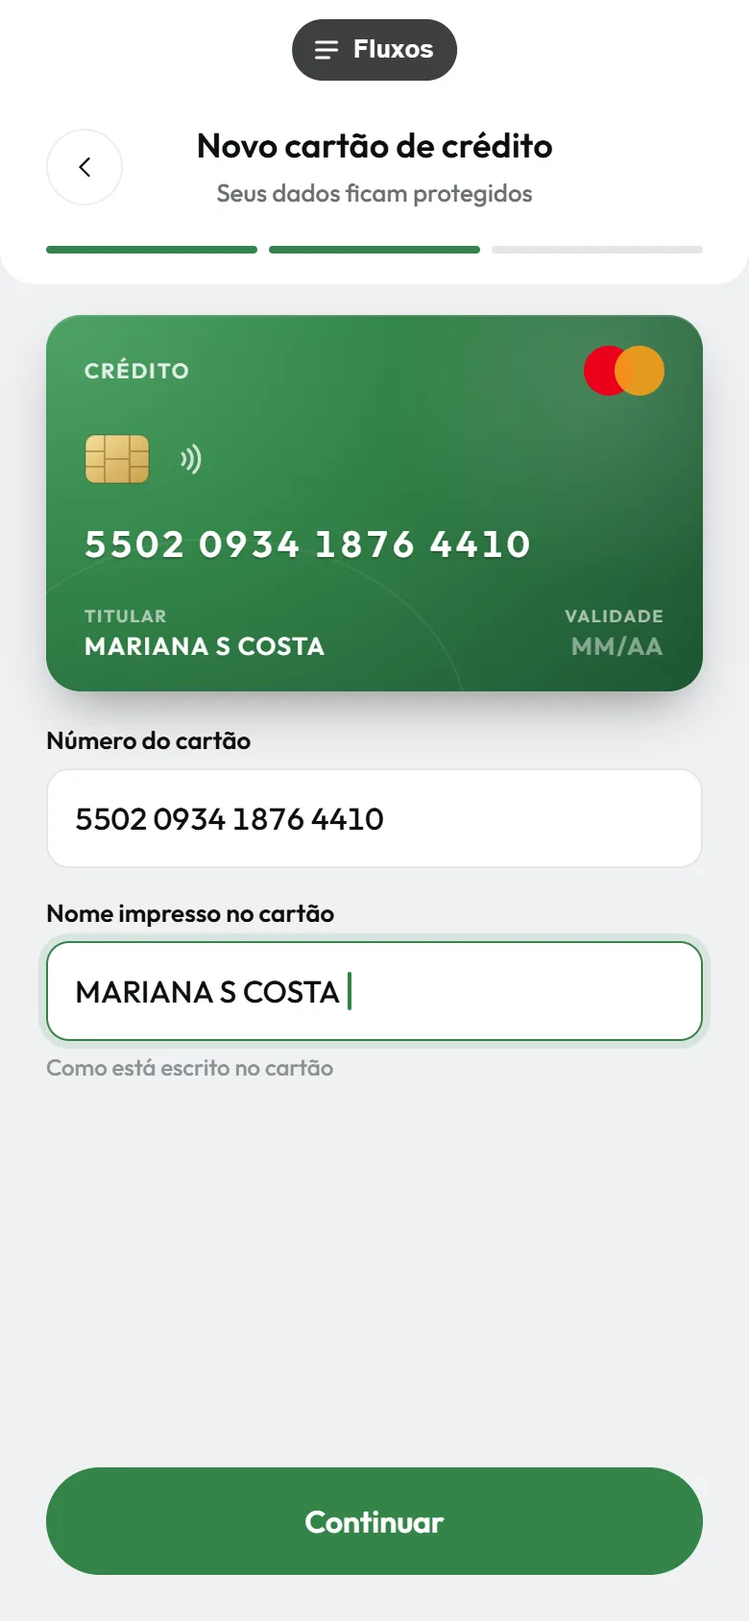
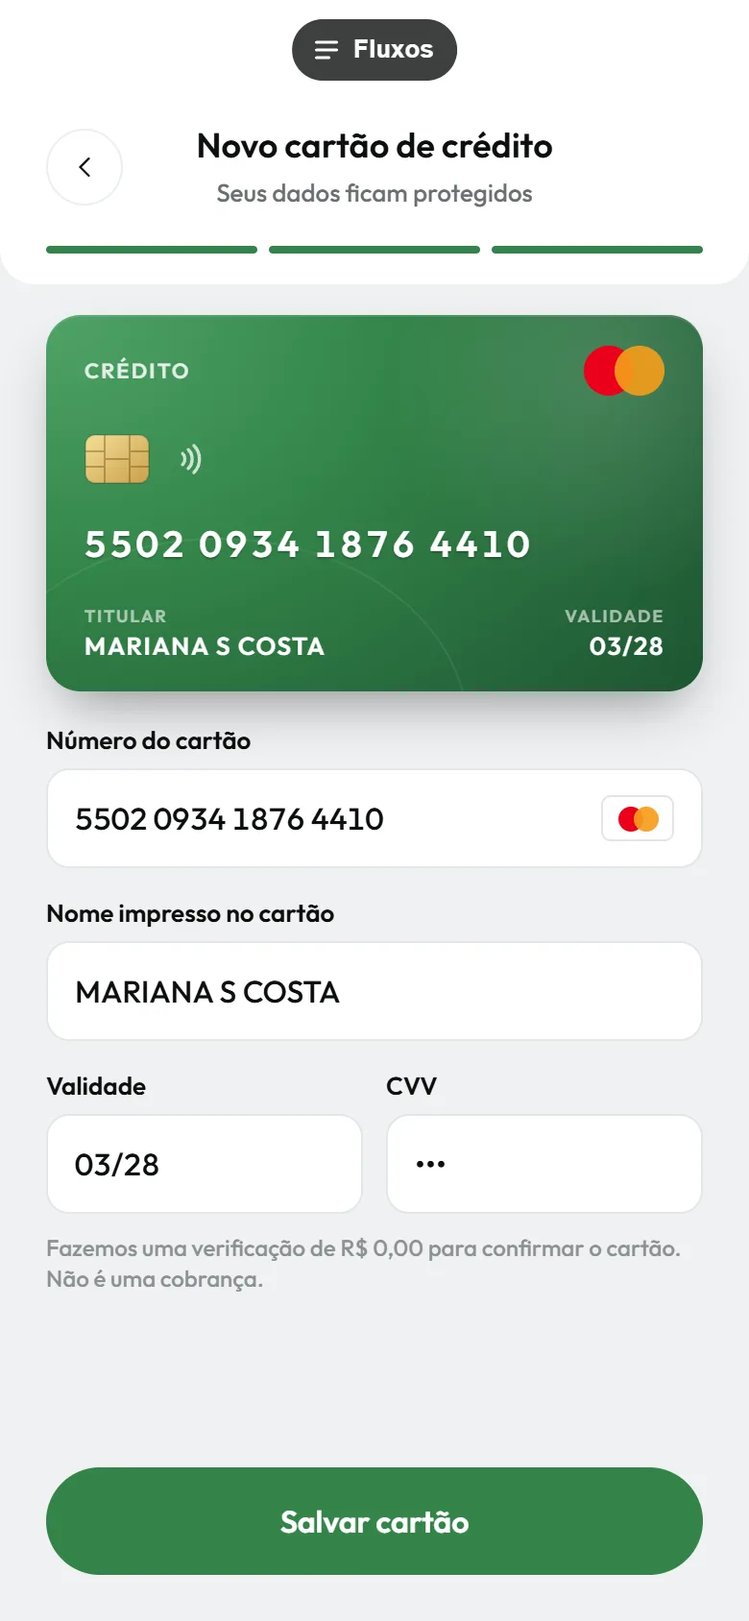
app-club/recorrencia-cartao: cartão novo como no link de cadastro
No app, o cadastro do cartão segue o link: a bandeira aparece enquanto
ele digita o número, o campo carrega sozinho e o nome, a validade e o
CVV abrem juntos, com o Continuar desativado até o fim. Os testes
automáticos tocam no campo de verdade, e a galeria mostra a tela nova.

diff --git a/app-club/recorrencia-cartao/index.html b/app-club/recorrencia-cartao/index.html
@@ -384,7 +384,7 @@ function numeros(est) {
   }
   return { disp: r2(disp), carteira: r2(carteira), eco: r2(eco), kwh, por, caminho: r2(por.set.cam + por.out.cam) };
 }
-const chave = est => JSON.stringify({ c: contasDe(est), e: est.emissao || '', u: est.uc || 'casa', a: est.acordo || null, g: est.grupo || null, n: est.neg || null, q: !!est.unica, d: est.desm || null, de: est.desmEscolha || null, au: est.auto || null, co: est.cob || null, ca: est.cart || null, at: !!est.atu, vf: !!est.verFormas, vt: !!est.verTodos, pm: (est.pg || {}).metodo || '' });
+const chave = est => JSON.stringify({ c: contasDe(est), e: est.emissao || '', u: est.uc || 'casa', a: est.acordo || null, g: est.grupo || null, n: est.neg || null, q: !!est.unica, d: est.desm || null, de: est.desmEscolha || null, au: est.auto || null, co: est.cob || null, ca: est.cart || null, at: !!est.atu, vf: !!est.verFormas, vt: !!est.verTodos, pm: (est.pg || {}).metodo || '', nc: est.ncEtapa || 0 });
 // the payment of a bill: from the record once paid (or the boleto paid), from the payment in course before
 function ctx(est, id) {
   const d = DEF[id], c = contasDe(est)[id], pg = est.pg || {}, n = numeros(est);
@@ -1369,6 +1369,11 @@ const marcaCartao = k => (k === 'master'
   ? '<span aria-hidden="true" style="display: flex"><span style="width: 26px; height: 26px; border-radius: 50%; background: #EB001B"></span><span style="width: 26px; height: 26px; margin-left: -10px; border-radius: 50%; background: #F79E1B; opacity: 0.9"></span></span>'
   : k === 'elo' ? '<span aria-hidden="true" style="font-size: 22px; line-height: 1; font-weight: 700; color: #FFCB05">elo</span>'
   : '<span aria-hidden="true" style="font-size: 22px; line-height: 1; font-weight: 800; font-style: italic; letter-spacing: 0.02em; color: #FFFFFF">VISA</span>');
+// the brand on the plaque at the end of the number field (the signup link's .marcaCampo, in the app's colors)
+const marcaCampo = k => (k === 'master'
+  ? '<span style="display: flex"><span style="width: 13px; height: 13px; border-radius: 50%; background: #EB001B"></span><span style="width: 13px; height: 13px; margin-left: -5px; border-radius: 50%; background: #F79E1B; opacity: 0.92"></span></span>'
+  : k === 'elo' ? '<span style="font-size: 11px; line-height: 1; font-weight: 800; color: #0D0F0F">elo</span>'
+  : '<span style="font-size: 10px; line-height: 1; font-weight: 800; font-style: italic; letter-spacing: 0.02em; color: #1A1F71">VISA</span>');
 function miniCartao(est, e) {
   const k = proximoCartao(cartDe(est)), c = CARTOES[k], deb = est.tipoNovo === 'debito';
   const fundo = 'radial-gradient(130% 170% at 0% 0%, #4FA367 0%, #338449 42%, #1C5230 100%)';
@@ -1376,33 +1381,44 @@ function miniCartao(est, e) {
   const chip = '<svg width="34" height="26" viewBox="0 0 34 26" aria-hidden="true"><defs><linearGradient id="chipNovo" x1="0" y1="0" x2="1" y2="1"><stop offset="0" stop-color="#F6DE97"></stop><stop offset="1" stop-color="#C8A04A"></stop></linearGradient></defs><rect x="0.5" y="0.5" width="33" height="25" rx="5" fill="url(#chipNovo)" stroke="rgba(0,0,0,0.15)"></rect><path d="M0.5 9h10M0.5 17h10M23.5 9h10M23.5 17h10M10.5 0.5v25M23.5 0.5v25M10.5 13h13" stroke="rgba(90,60,10,0.35)" fill="none"></path></svg>';
   const nfc = '<svg width="20" height="20" viewBox="0 0 24 24" fill="none" stroke="rgba(255,255,255,0.75)" stroke-width="2" stroke-linecap="round" aria-hidden="true"><path d="M8.5 8.5a5 5 0 0 1 0 7"></path><path d="M12 6a8.5 8.5 0 0 1 0 12"></path><path d="M15.5 3.5a12 12 0 0 1 0 17"></path></svg>';
   const rot = t => `<span style="font-size: 9px; line-height: 12px; font-weight: 600; letter-spacing: 0.1em; opacity: 0.6">${t}</span>`;
+  // with the number still empty, the card shows dots and no brand; both fill in while he types (data-nc-mini-*)
   return `<div aria-hidden="true" style="position: relative; overflow: hidden; margin: 16px 16px 0; height: 196px; box-sizing: border-box; border-radius: 18px; background: ${fundo}; color: #FFFFFF; padding: 16px 20px; display: flex; flex-direction: column; justify-content: space-between; box-shadow: 0 14px 28px -10px rgba(13,15,15,0.45), inset 0 1px 0 rgba(255,255,255,0.12)">
 <span style="position: absolute; right: -70px; top: -90px; width: 240px; height: 240px; border-radius: 50%; background: radial-gradient(circle, rgba(255,255,255,0.14) 0%, rgba(255,255,255,0) 68%)"></span>
 <span style="position: absolute; left: -40px; bottom: -120px; width: 260px; height: 200px; border-radius: 50%; border: 1px solid rgba(255,255,255,0.08)"></span>
-<div style="position: relative; display: flex; align-items: center; justify-content: space-between"><span style="font-size: 11px; line-height: 16px; font-weight: 600; letter-spacing: 0.1em; text-transform: uppercase; opacity: 0.85">${deb ? 'Débito' : 'Crédito'}</span>${marcaCartao(k)}</div>
+<div style="position: relative; display: flex; align-items: center; justify-content: space-between"><span style="font-size: 11px; line-height: 16px; font-weight: 600; letter-spacing: 0.1em; text-transform: uppercase; opacity: 0.85">${deb ? 'Débito' : 'Crédito'}</span><span data-nc-mini-marca style="display: flex; opacity: ${e === 0 ? 0 : 1}">${marcaCartao(k)}</span></div>
 <div style="position: relative; display: flex; align-items: center; gap: 10px">${chip}${nfc}</div>
-<span style="position: relative; font-size: 19px; line-height: 24px; font-weight: 600; letter-spacing: 0.12em; font-variant-numeric: tabular-nums; white-space: nowrap; text-shadow: 0 1px 1px rgba(0,0,0,0.25)">${c.numero}</span>
-<div style="position: relative; display: flex; align-items: flex-end; justify-content: space-between; gap: 12px"><span style="min-width: 0; display: flex; flex-direction: column; gap: 1px">${rot('TITULAR')}<span style="font-size: 13px; line-height: 16px; font-weight: 600; letter-spacing: 0.06em">${e >= 1 ? 'MARIANA S COSTA' : fraco('NOME NO CARTÃO')}</span></span><span style="flex-shrink: 0; display: flex; flex-direction: column; align-items: flex-end; gap: 1px">${rot('VALIDADE')}<span style="font-size: 13px; line-height: 16px; font-weight: 600; letter-spacing: 0.06em">${e >= 2 ? c.validade : fraco('MM/AA')}</span></span></div>
+<span data-nc-mini-num style="position: relative; font-size: 19px; line-height: 24px; font-weight: 600; letter-spacing: 0.12em; font-variant-numeric: tabular-nums; white-space: nowrap; text-shadow: 0 1px 1px rgba(0,0,0,0.25)">${e === 0 ? '•••• •••• •••• ••••' : c.numero}</span>
+<div style="position: relative; display: flex; align-items: flex-end; justify-content: space-between; gap: 12px"><span style="min-width: 0; display: flex; flex-direction: column; gap: 1px">${rot('TITULAR')}<span data-nc-mini-nome style="font-size: 13px; line-height: 16px; font-weight: 600; letter-spacing: 0.06em">${e >= 2 ? 'MARIANA S COSTA' : fraco('NOME NO CARTÃO')}</span></span><span style="flex-shrink: 0; display: flex; flex-direction: column; align-items: flex-end; gap: 1px">${rot('VALIDADE')}<span data-nc-mini-val style="font-size: 13px; line-height: 16px; font-weight: 600; letter-spacing: 0.06em">${e >= 2 ? c.validade : fraco('MM/AA')}</span></span></div>
 </div>`;
 }
+// adding a card, as in the signup link (Sergio, 12/11): three steps, the kind (already picked in the sheet), the number and the
+// rest. The number types in, the brand shows up in the field and on the card, and once complete the field loads by itself
+// (green border, a light running across, a line filling underneath, the spinner and "Verificando o cartão…"); then the name,
+// the validity and the CVV open together and fill in. No "Continuar" to tap: it stays off until the end, when "Salvar cartão"
+// takes its place. ncEtapa: 0 the number (empty), 1 loading, 2 the rest
 function novoCartao(est) {
   const ct = cartDe(est), k = proximoCartao(ct), c = CARTOES[k], e = Math.min(2, est.ncEtapa || 0), deb = est.tipoNovo === 'debito';
-  // the label with more weight, the helper lighter; every field the same height
-  const campo = (rot, val, foco, ajudaTxt = '') => `<div style="min-width: 0; display: flex; flex-direction: column; gap: 6px"><span style="font-size: 13px; line-height: 18px; font-weight: 600; color: #0D0F0F">${rot}</span><span style="height: 52px; box-sizing: border-box; border-radius: 12px; background: #FFFFFF; border: ${foco ? '1.5px solid #338449' : '1px solid #E3E6E8'};${foco ? ' box-shadow: 0 0 0 4px rgba(51,132,73,0.12);' : ''} padding: 0 14px; display: flex; align-items: center; gap: 2px; font-size: 16px; line-height: 22px; font-weight: 500; color: #0D0F0F; font-variant-numeric: tabular-nums; white-space: nowrap; overflow: hidden">${val}${foco ? '<span style="width: 2px; height: 20px; margin-left: 2px; border-radius: 1px; background: #338449"></span>' : ''}</span>${ajudaTxt ? `<span style="font-size: 12px; line-height: 16px; font-weight: 500; color: #8B9094">${ajudaTxt}</span>` : ''}</div>`;
-  const passos = [0, 1, 2].map(i => `<span style="flex: 1 1 0; height: 4px; border-radius: 2px; background: ${i <= e ? '#338449' : '#E3E6E8'}"></span>`).join('');
-  const campos = [
-    campo('Número do cartão', c.numero, e === 0, e === 0 ? 'Os 16 números na frente do cartão' : ''),
-    e >= 1 ? campo('Nome impresso no cartão', 'MARIANA S COSTA', e === 1, e === 1 ? 'Como está escrito no cartão' : '') : '',
-    e >= 2 ? `<div style="display: grid; grid-template-columns: minmax(0, 1fr) minmax(0, 1fr); gap: 12px">${campo('Validade', c.validade, true)}${campo('CVV', '•••', false)}</div>` : '',
-  ].filter(Boolean).join('');
-  const ultimo = e >= 2;
+  const caret = '<span data-nc-caret style="width: 2px; height: 20px; margin: 0 2px; border-radius: 1px; background: #338449; flex-shrink: 0"></span>';
+  // the label with more weight, the helper lighter (green while it loads); every field the same height
+  const campo = (rot, val, { foco = false, borda = foco, ajuda = '', ajudaVerde = false, attrs = '', fim = '', extra = '' } = {}) => `<div style="min-width: 0; display: flex; flex-direction: column; gap: 6px"><span style="font-size: 13px; line-height: 18px; font-weight: 600; color: #0D0F0F">${rot}</span><span${attrs} style="position: relative; overflow: hidden; height: 52px; box-sizing: border-box; border-radius: 12px; background: #FFFFFF; border: ${borda ? '1.5px solid #338449' : '1px solid #E3E6E8'};${foco ? ' box-shadow: 0 0 0 4px rgba(51,132,73,0.12);' : ''} padding: 0 14px; display: flex; align-items: center; gap: 8px; font-size: 16px; line-height: 22px; font-weight: 500; color: #0D0F0F; font-variant-numeric: tabular-nums; white-space: nowrap${attrs ? '; cursor: text' : ''}"><span data-nc-valor style="flex: 1 1 auto; min-width: 0; overflow: hidden; display: flex; align-items: center">${val}</span><span data-nc-fim style="flex-shrink: 0; display: flex; align-items: center; gap: 8px">${fim}</span>${extra}</span>${ajuda ? `<span style="font-size: 12px; line-height: 16px; font-weight: ${ajudaVerde ? 600 : 500}; color: ${ajudaVerde ? '#276638' : '#8B9094'}">${ajuda}</span>` : ''}</div>`;
+  const marca = (ver = true) => `<span data-nc-marca role="img" aria-label="${CARTOES[k].nome}" style="display: flex; align-items: center; justify-content: center; width: 38px; height: 24px; box-sizing: border-box; border-radius: 5px; background: #FFFFFF; border: 1px solid #E3E6E8; opacity: ${ver ? 1 : 0}">${marcaCampo(k)}</span>`;
+  const spin = '<span data-nc-spin role="status" aria-label="Verificando o cartão" style="width: 18px; height: 18px; box-sizing: border-box; flex-shrink: 0; border-radius: 50%; border: 2px solid #338449; border-right-color: transparent"></span>';
+  const carga = '<span data-nc-brilho aria-hidden="true" style="position: absolute; inset: 0; background: linear-gradient(100deg, transparent 30%, rgba(51,132,73,0.14) 50%, transparent 70%); transform: translateX(-100%); pointer-events: none"></span><span data-nc-barra aria-hidden="true" style="position: absolute; left: 0; bottom: 0; width: 100%; height: 3px; background: #338449; transform-origin: left; transform: scaleX(0)"></span>';
+  const numero = e === 0
+    ? campo('Número do cartão', `${caret}<span data-nc-ph style="color: #C9CDD0">0000 0000 0000 0000</span>`, { foco: true, ajuda: 'Os 16 números na frente do cartão', attrs: ` role="button" aria-label="Número do cartão: toque para digitar" data-nc-numero data-numero="${c.numero}"`, fim: marca(false) })
+    : e === 1 ? campo('Número do cartão', c.numero, { borda: true, ajuda: 'Verificando o cartão…', ajudaVerde: true, fim: marca() + spin, extra: carga })
+    : campo('Número do cartão', c.numero, { fim: marca() });
+  const resto = e >= 2 ? `<div data-nc-resto style="display: flex; flex-direction: column; gap: 14px">${campo('Nome impresso no cartão', '<span data-nc-tx="MARIANA S COSTA">MARIANA S COSTA</span>')}<div style="display: grid; grid-template-columns: minmax(0, 1fr) minmax(0, 1fr); gap: 12px">${campo('Validade', `<span data-nc-tx="${c.validade}">${c.validade}</span>`)}${campo('CVV', '<span data-nc-tx="•••">•••</span>')}</div></div>` : '';
+  // the bars: the kind is done when he gets here, so the number is step 2 of 3 and the rest is step 3
+  const n = e >= 2 ? 3 : 2;
+  const passos = [0, 1, 2].map(i => `<span style="flex: 1 1 0; height: 4px; border-radius: 2px; background: ${i < n ? '#338449' : '#E3E6E8'}"></span>`).join('');
   return tela(`${AJ.cabecalho(deb ? 'Novo cartão de débito' : 'Novo cartão de crédito', 'Seus dados ficam protegidos')}
-<div data-topo-ext style="position: relative; z-index: 1; margin: 0 calc(16px - var(--g, 24px)); padding: 4px var(--g, 24px) 16px; background: #FFFFFF; border-radius: 0 0 18px 18px; box-shadow: 0 12px 20px -12px rgba(0,0,0,0.10)"><div role="progressbar" aria-label="Passo ${e + 1} de 3" aria-valuemin="1" aria-valuemax="3" aria-valuenow="${e + 1}" style="display: flex; gap: 6px">${passos}</div></div>
+<div data-topo-ext style="position: relative; z-index: 1; margin: 0 calc(16px - var(--g, 24px)); padding: 4px var(--g, 24px) 16px; background: #FFFFFF; border-radius: 0 0 18px 18px; box-shadow: 0 12px 20px -12px rgba(0,0,0,0.10)"><div role="progressbar" aria-label="Passo ${n} de 3" aria-valuemin="1" aria-valuemax="3" aria-valuenow="${n}" style="display: flex; gap: 6px">${passos}</div></div>
 ${miniCartao(est, e)}
-<div style="margin: 16px 16px 0; display: flex; flex-direction: column; gap: 14px">${campos}</div>
-${ultimo ? '<span style="display: block; margin: 10px 16px 0; font-size: 12px; line-height: 16px; font-weight: 500; color: #8B9094">Fazemos uma verificação de R$ 0,00 para confirmar o cartão. Não é uma cobrança.</span>' : ''}
+<div style="margin: 16px 16px 0; display: flex; flex-direction: column; gap: 14px">${numero}${resto}</div>
+${e >= 2 ? '<span data-nc-nota style="display: block; margin: 10px 16px 0; font-size: 12px; line-height: 16px; font-weight: 500; color: #8B9094">Fazemos uma verificação de R$ 0,00 para confirmar o cartão. Não é uma cobrança.</span>' : ''}
 <div style="height: 110px"></div>
-${AJ.rodapeFixo(btnVerde(ultimo ? 'Salvar cartão' : 'Continuar', ultimo ? ' data-nc-salvar' : ' data-nc-prox'))}`);
+${AJ.rodapeFixo(e >= 2 ? btnVerde('Salvar cartão', ' data-nc-salvar') : btnVerde('Continuar', ' data-nc-continuar', false))}`);
 }
 // from Pagamentos, before saving: how to use the new card (the payment flow asks this when paying, so it does not here)
 function folhaNovoOpcoes(est) {
@@ -6183,6 +6199,76 @@ CONT_PRONTO.then(({ CONT, M }) => {
       em(d, 'Copiar', () => toast('ID copiado'), { comeca: true });
     }
   }
+  // ---------- the new card, as in the signup link (12/11): a tap on the number field (or "Simular" under the phone) types the
+  // number in; the brand shows up in the field and on the card; once complete the field loads by itself and the name, the
+  // validity and the CVV open together and fill in; "Salvar cartão" turns on at the end. Only transform and opacity move
+  let ncTimer = 0, ncResto = false;
+  const ncAqui = () => !!atual && atual.id.split('+')[0] === 'NovoCartao';
+  const ncFormatar = d => d.replace(/(.{4})/g, '$1 ').trim();
+  function ncMovimentos(c) {
+    const e = estado.ncEtapa || 0;
+    if (!calmo) c.querySelectorAll('[data-nc-caret]').forEach(el => el.animate([{ opacity: 1 }, { opacity: 1, offset: 0.5 }, { opacity: 0, offset: 0.51 }, { opacity: 0 }], { duration: 1000, iterations: Infinity }));
+    clearTimeout(ncTimer);
+    if (e === 1) {
+      // the loading: a line fills underneath, a light runs across and the spinner turns; then the rest opens
+      if (!calmo) {
+        const barra = c.querySelector('[data-nc-barra]'), brilho = c.querySelector('[data-nc-brilho]'), spin = c.querySelector('[data-nc-spin]');
+        if (barra) barra.animate([{ transform: 'scaleX(0)' }, { transform: 'scaleX(1)' }], { duration: 1000, easing: 'cubic-bezier(0.4, 0, 0.2, 1)', fill: 'forwards' });
+        if (brilho) brilho.animate([{ transform: 'translateX(-100%)' }, { transform: 'translateX(100%)' }], { duration: 1100, iterations: Infinity });
+        if (spin) spin.animate([{ transform: 'rotate(0)' }, { transform: 'rotate(360deg)' }], { duration: 700, iterations: Infinity });
+      }
+      ncTimer = setTimeout(() => { if (ncAqui() && estado.ncEtapa === 1) { estado.ncEtapa = 2; ncResto = true; redesenhar(); } }, 1050);
+    } else if (e === 2 && ncResto) {
+      ncResto = false;
+      ncPreencherResto(c);
+    }
+  }
+  function ncDigitarNumero() {
+    const c = atual && atual.camada;
+    if (!c || (estado.ncEtapa || 0) !== 0 || c.dataset.ncDigitando) return;
+    const campoEl = c.querySelector('[data-nc-numero]'); if (!campoEl) return;
+    c.dataset.ncDigitando = '1';
+    const val = campoEl.querySelector('[data-nc-valor]'), caret = val.querySelector('[data-nc-caret]');
+    const marcas = [campoEl.querySelector('[data-nc-marca]'), c.querySelector('[data-nc-mini-marca]')];
+    const mini = c.querySelector('[data-nc-mini-num]'), dig = campoEl.dataset.numero.replace(/\D/g, '');
+    let i = 0;
+    const passo = () => {
+      if (!ncAqui() || !campoEl.isConnected) return;
+      i++;
+      const d = dig.slice(0, i);
+      val.textContent = ncFormatar(d);
+      if (caret) val.appendChild(caret);
+      if (mini) mini.textContent = ncFormatar(d + '•'.repeat(16 - i));
+      // the brand comes from the first numbers, in the field and on the card
+      if (i === 2) marcas.forEach(el => { if (!el) return; el.style.opacity = '1'; if (!calmo) el.animate([{ opacity: 0, transform: 'scale(0.6)' }, { opacity: 1, transform: 'none' }], { duration: 320, easing: 'cubic-bezier(0.34, 1.56, 0.64, 1)' }); });
+      if (i < dig.length) setTimeout(passo, 55);
+      else setTimeout(() => { if (ncAqui() && (estado.ncEtapa || 0) === 0) { estado.ncEtapa = 1; redesenhar(); } }, 280);
+    };
+    passo();
+  }
+  function ncPreencherResto(c) {
+    const resto = c.querySelector('[data-nc-resto]'), nota = c.querySelector('[data-nc-nota]'), btn = c.querySelector('[data-nc-salvar]');
+    // the rest opens together, one field after the other, and the button stays off while it fills in
+    if (!calmo && resto) [...resto.querySelectorAll(':scope > div, :scope > div > div')].forEach((el, i) => el.animate([{ opacity: 0, transform: 'translateY(8px)' }, { opacity: 1, transform: 'none' }], { duration: 320, delay: i * 70, easing: 'cubic-bezier(0.22, 0.8, 0.2, 1)', fill: 'backwards' }));
+    if (!calmo && nota) nota.animate([{ opacity: 0 }, { opacity: 1 }], { duration: 300, delay: 260, fill: 'backwards' });
+    const liga = on => { if (!btn) return; btn.style.background = on ? '#338449' : '#EBEEF0'; btn.style.color = on ? '#FFFFFF' : '#6A6E71'; btn.style.pointerEvents = on ? '' : 'none'; if (on) btn.removeAttribute('aria-disabled'); else btn.setAttribute('aria-disabled', 'true'); };
+    liga(false);
+    const alvos = [...c.querySelectorAll('[data-nc-tx]')], minis = [c.querySelector('[data-nc-mini-nome]'), c.querySelector('[data-nc-mini-val]')];
+    alvos.forEach(el => { el.textContent = ''; });
+    minis.forEach(el => { if (el) el.textContent = ''; });
+    let j = 0, i = 0;
+    const passo = () => {
+      if (!ncAqui() || !c.isConnected) return;
+      const el = alvos[j];
+      if (!el) { liga(true); if (!calmo && btn) btn.animate([{ transform: 'scale(0.97)' }, { transform: 'none' }], { duration: 260, easing: 'cubic-bezier(0.34, 1.56, 0.64, 1)' }); return; }
+      const t = el.dataset.ncTx;
+      i++;
+      el.textContent = t.slice(0, i);
+      if (minis[j]) minis[j].textContent = t.slice(0, i);
+      if (i >= t.length) { j++; i = 0; setTimeout(passo, 180); } else setTimeout(passo, j === 0 ? 38 : 80);
+    };
+    setTimeout(passo, calmo ? 0 : 420);
+  }
   // ---------- recorrência do pagamento no cartão (12/11): the saved cards (one principal), the recurrence of the Casa's bills,
   // its notice, the declined charge and the swap of card. The record lives in estado.cart, estado.auto and estado.cob
   const AUTO_TELAS = new Set(['AutoDetalhe', 'AutoCobrada', 'TrocarAuto', 'NovoCartao', 'Pagamentos']);
@@ -6258,7 +6344,8 @@ CONT_PRONTO.then(({ CONT, M }) => {
       cada(c, '[data-cartao]', b => folha('Cartao:' + b.dataset.cartao));
       cada(c, '[data-trocar-uc]', () => folha('UcRec'));
     } else if (nome === 'NovoCartao') {
-      cada(c, '[data-nc-prox]', () => { estado.ncEtapa = (estado.ncEtapa || 0) + 1; redesenhar(); });
+      ncMovimentos(c);
+      cada(c, '[data-nc-numero]', () => ncDigitarNumero());
       cada(c, '[data-nc-salvar]', () => (estado.ncOrigem === 'pagamentos' ? folha('NovoOpcoes') : salvarNovo('nada')));
     } else if (nome === 'AutoCobrada') em(c, 'Ir para minhas faturas', irFaturas, { exato: true });
   }
@@ -6483,19 +6570,21 @@ CONT_PRONTO.then(({ CONT, M }) => {
       ['Com a recorrência ativa', 'FaturaDetalhe:out', { auto: { cartao: 'visa' }, recVista: true, preVista: true }],
       ['Ver outras formas de pagamento', 'FaturaDetalhe:out', { auto: null, verFormas: true }],
     ] },
-    { id: 'rec-sem-cartao', eco: 'desc', titulo: 'Adicionar cartão na fatura', desc: 'Primeiro o tipo, numa lista simples. Depois, numa tela só, os campos aparecem conforme ele preenche, com os passos em cima e a miniatura do cartão. Na fatura, salvar volta direto para o pagamento: a recorrência é oferecida na hora de pagar.', passos: [
+    { id: 'rec-sem-cartao', eco: 'desc', titulo: 'Adicionar cartão na fatura', desc: 'Primeiro o tipo, numa lista simples. Depois o número: a bandeira aparece enquanto ele digita e, completo, o campo carrega sozinho e o nome, a validade e o CVV abrem juntos, sem Continuar. Toque no campo do número para digitar. Na fatura, salvar volta direto para o pagamento.', passos: [
       ['Fatura: sem cartão salvo', 'FaturaDetalhe:out', { ...LIMPO, ...SET_PAGO, cart: { lista: [], principal: null }, ...pg('out', '') }],
       ['Qual o tipo do cartão', 'FaturaDetalhe:out+F:TipoCartao'],
-      ['Número', 'NovoCartao', { tipoNovo: 'credito', ncEtapa: 0, ncOrigem: 'fatura' }],
-      ['Nome', 'NovoCartao', { ncEtapa: 1 }],
-      ['Validade e CVV', 'NovoCartao', { ncEtapa: 2 }],
+      ['Número: a bandeira aparece ao digitar', 'NovoCartao', { tipoNovo: 'credito', ncEtapa: 0, ncOrigem: 'fatura' }],
+      ['O número carrega sozinho', 'NovoCartao', { ncEtapa: 1 }],
+      ['Nome, validade e CVV juntos', 'NovoCartao', { ncEtapa: 2 }],
       ['Fatura com o cartão novo', 'FaturaDetalhe:out', { cart: { lista: ['master'], principal: null, tipo: { master: 'credito' } }, ncEtapa: 0, ncOrigem: null, ...pg('out', 'master') }],
       ['Pagar: a folha antes do pagamento', 'FaturaDetalhe:out+F:AntesPagar'],
     ] },
     { id: 'rec-add-perfil', eco: 'desc', titulo: 'Adicionar em Perfil › Pagamentos', desc: 'Fora do pagamento, antes de salvar, uma folha pergunta como usar o cartão: ativar a recorrência (recomendado), usar como principal ou só salvar.', passos: [
       ['Pagamentos', 'Pagamentos', { ...LIMPO, ...SET_PAGO, cart: { lista: ['visa'], principal: 'visa' } }],
       ['Qual o tipo do cartão', 'Pagamentos+F:TipoCartao'],
-      ['Dados do cartão', 'NovoCartao', { tipoNovo: 'credito', ncEtapa: 2, ncOrigem: 'pagamentos' }],
+      ['Número: a bandeira aparece ao digitar', 'NovoCartao', { tipoNovo: 'credito', ncEtapa: 0, ncOrigem: 'pagamentos' }],
+      ['O número carrega sozinho', 'NovoCartao', { ncEtapa: 1 }],
+      ['Nome, validade e CVV juntos', 'NovoCartao', { ncEtapa: 2 }],
       ['Como usar este cartão', 'NovoCartao+F:NovoOpcoes'],
       ['Pagamentos: cartão novo na recorrência', 'Pagamentos', { cart: { lista: ['visa', 'master'], principal: 'visa', tipo: { master: 'credito' } }, auto: { cartao: 'master' }, recVista: true, preVista: true, ncEtapa: 0, ncOrigem: null }],
     ] },
@@ -6657,13 +6746,14 @@ CONT_PRONTO.then(({ CONT, M }) => {
   // ---------- testes automáticos (Sergio, 12/11): a aba "Testes" percorre um fluxo sozinha. Um dedo mostra onde a pessoa
   // toca, a tela segue com as animações do app (empurra, abre a folha, volta) e dá para pausar, voltar, avançar e mudar a
   // velocidade. Cada toque é o texto (ou o rótulo) do botão que leva ao passo seguinte: 'sw:' é o interruptor, uma lista são
-  // toques em sequência na mesma tela (o último leva ao passo seguinte) e null passa sem toque.
+  // toques em sequência na mesma tela (o último leva ao passo seguinte), null passa sem toque e 'real:' toca de verdade e
+  // espera a tela andar sozinha até um passo seguinte (o número do cartão novo: digita, carrega e abre o resto).
   const TESTES = [
     { id: 'rec-pagar', t: 'Ativar a recorrência no primeiro pagamento', toques: ['Pagar agora', 'Visa •••• 1290', 'Pagar R$', ['Ativar recorrência', 'Continuar e pagar'], 'Fechar'] },
     { id: 'rec-so-pagar', t: 'Só pagar e ativar depois, na confirmação', toques: [['Só pagar esta fatura', 'Continuar e pagar'], 'sw:Recorrência do pagamento', 'Ativar recorrência'] },
     { id: 'rec-principal', t: 'Pagar com o cartão principal (favorito)', toques: ['Pagar R$', ['Ativar recorrência', 'Continuar e pagar'], 'Ver outras formas de pagamento'] },
-    { id: 'rec-sem-cartao', t: 'Adicionar um cartão na fatura', toques: ['Adicionar cartão', 'Cartão de crédito', 'Continuar', 'Continuar', 'Salvar cartão', 'Pagar R$'] },
-    { id: 'rec-add-perfil', t: 'Adicionar um cartão em Perfil › Pagamentos', toques: ['Adicionar cartão', 'Cartão de crédito', 'Salvar cartão', 'Ativar recorrência'] },
+    { id: 'rec-sem-cartao', t: 'Adicionar um cartão na fatura', toques: ['Adicionar cartão', 'Cartão de crédito', 'real:Número do cartão', null, 'Salvar cartão', 'Pagar R$'] },
+    { id: 'rec-add-perfil', t: 'Adicionar um cartão em Perfil › Pagamentos', toques: ['Adicionar cartão', 'Cartão de crédito', 'real:Número do cartão', null, 'Salvar cartão', 'Ativar recorrência'] },
     { id: 'rec-varios', t: 'Escolher entre vários cartões', toques: ['Ver outras formas de pagamento', 'Ver todos os cartões', 'Elo •••• 7781', 'Gerenciar cartões'] },
     { id: 'rec-perfil', t: 'Ligar a recorrência em Perfil › Pagamentos', toques: ['sw:Recorrência do pagamento', 'Veja como funciona', 'Ativar recorrência', 'Trocar de unidade', 'Casa'] },
     { id: 'rec-como', t: 'Ver como funciona', toques: ['Como funciona a recorrência'] },
@@ -6773,6 +6863,8 @@ CONT_PRONTO.then(({ CONT, M }) => {
     legendaEl.classList.remove('on'); void legendaEl.offsetWidth; legendaEl.classList.add('on');
     desenharTestes();
   }
+  // enquanto a tela anda sozinha (toque 'real:'), o player acompanha o passo em que ela está
+  function pintarPassoReal(f, q) { if (!teste || q < 0) return; teste.k = q; pintarPlayer(); }
   function iniciarTeste(lista) {
     pararTeste();
     teste = { lista, i: 0, k: 0, pausado: false, token: Symbol('teste'), mostrado: false };
@@ -6808,14 +6900,31 @@ CONT_PRONTO.then(({ CONT, M }) => {
         continue;
       }
       const t = x.toques[k], lista = t == null ? [] : Array.isArray(t) ? t : [t];
+      let chegou = -1;
       for (let j = 0; j < lista.length && ativo() && !teste.saltou; j++) {
-        const el = alvoToque(lista[j]); if (!el) continue;
+        const real = String(lista[j] || '').startsWith('real:'), el = alvoToque(real ? lista[j].slice(5) : lista[j]); if (!el) continue;
         await rolarAte(el); if (!ativo() || teste.saltou) break;
         await tocar(el); if (!ativo() || teste.saltou) break;
         // os toques do meio são escolhas na mesma tela: acontecem de verdade (a opção fica marcada)
         if (j < lista.length - 1) { el.click(); await dormir(650); await esperarPausa(tk); }
+        // 'real:' toca de verdade e espera a tela andar sozinha: fica no passo mais adiante que bate com o estado, e só segue
+        // quando ele para de mudar (o número digita, carrega e o resto abre e se preenche)
+        else if (real) {
+          el.click(); dedo.classList.remove('on');
+          let ultimo = -1, desde = 0;
+          for (let w = 0; w < 120 && ativo() && !teste.saltou; w++) {
+            await new Promise(r => setTimeout(r, 100));
+            const agora = M.chave(estado);
+            let q = -1;
+            for (let p = k + 1; p < f.passos.length; p++) if (f.passos[p][1] === atual.id && chaveDe(f, p) === agora) q = p;
+            if (q !== ultimo) { ultimo = q; desde = performance.now(); pintarPassoReal(f, q); }
+            else if (q > k + 1 && performance.now() - desde > 1900) break;
+          }
+          chegou = ultimo;
+        }
       }
       if (!ativo()) return; if (teste.saltou) continue;
+      if (chegou > k) { teste.k = chegou; teste.mostrado = true; dedo.classList.add('on'); continue; }
       teste.anim = animEntre(f.passos[k][1], f.passos[k + 1][1], lista[lista.length - 1]);
       teste.k = k + 1;
     }
@@ -6924,6 +7033,7 @@ CONT_PRONTO.then(({ CONT, M }) => {
       if (n === 'Boleto' && faseDe(a) === 'antes') extra.push(['Simular pagamento no banco', () => pagarNoBanco(a)]);
       if (n === 'Aguardando' && faseDe(a) === 'agu') extra.push(['Simular compensação (2 dias depois)', () => compensar(a)]);
       if (n === 'Pix' && faseDe(a) === 'antes') extra.push(['Simular Pix recebido', () => pagou(a, 'pix')], ['Simular Pix expirado', () => expirar(a)]);
+      if (n === 'NovoCartao' && !(estado.ncEtapa || 0)) extra.push(['Digitar o número do cartão', () => ncDigitarNumero()]);
       if ((n === 'FaturaPaga' || n === 'FaturaDetalhe') && DEF[a]) extra.push(['Simular falha na consulta', () => { consultaDe = atual.id; render('ConsultaErro:' + a, 'fade'); }]);
       if (n === 'Faturas' && estado.acordo && estado.acordo.fase === 'entrada') extra.push(['Simular entrada compensada', () => { estado.acordo = { ...estado.acordo, fase: 'ativo', pagas: 0 }; render(atual.id, 'fade', atual.rol.scrollTop); toast('Entrada confirmada: o parcelamento começou a valer'); }]);
       else if (n === 'Faturas' && estado.acordo && (estado.acordo.pagas || 0) < estado.acordo.n) extra.push(['Simular parcela paga', () => { const ac = estado.acordo, k = (ac.pagas || 0) + 1; estado.acordo = { ...ac, pagas: k }; render(atual.id, 'fade', atual.rol.scrollTop); toast(k === ac.n ? 'Última parcela paga: acordo quitado' : `Parcela ${k} de ${ac.n} paga`); }]);
